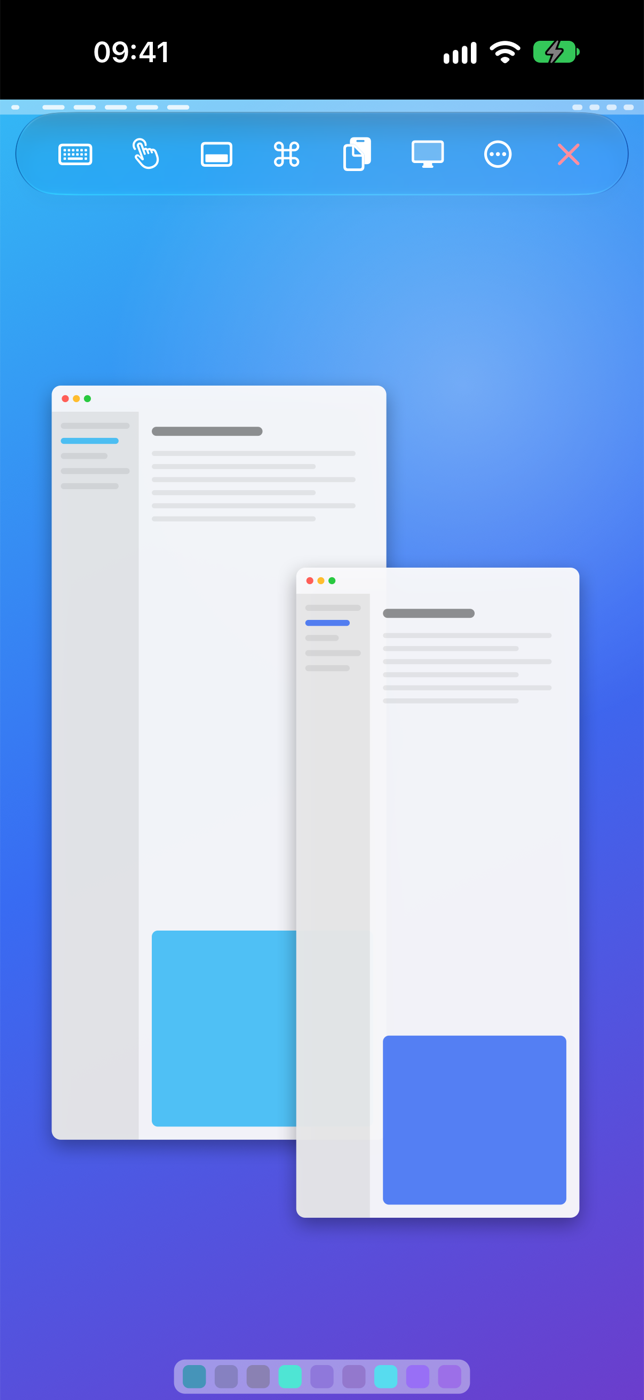
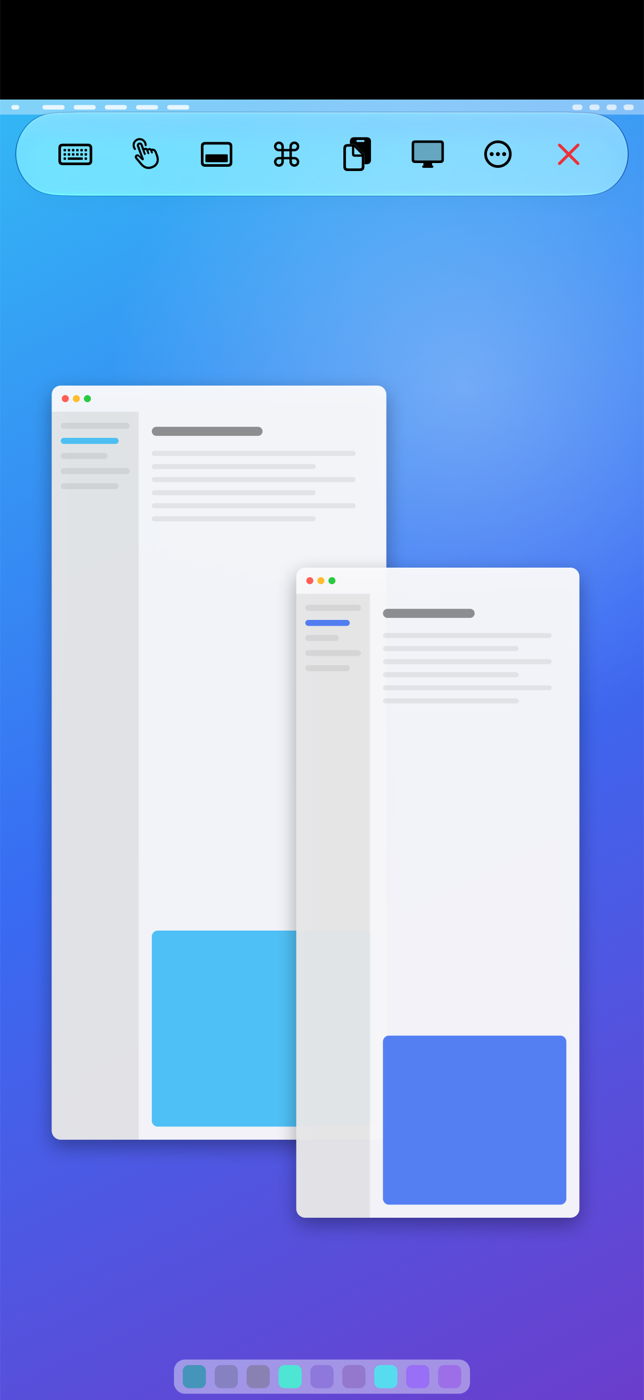
Version 1.1.1
The changelog says what went wrong in 1.1.0 on a device it had not
been tried on, and the pictures show a session as it is again: without
the status bar.

Changed region(s): [[0.0, 0.0307, 0.9938, 0.1536]]

diff --git a/CHANGELOG.md b/CHANGELOG.md
@@ -3,6 +3,20 @@
 Notable changes to OpenScreens. Versions follow
 [Semantic Versioning](https://semver.org).
 
+## 1.1.1
+
+- **Opening a session no longer freezes the app.** Version 1.1.0 showed the
+  status bar wherever a screen had room for it, and what a screen keeps
+  clear depends on whether the bar is showing. On an iPhone Duo with iOS
+  27.3 the two did not agree: each change undid the other, the interface
+  never came to rest, and the system ended the app. The status bar is
+  hidden for as long as a session is on the screen, as it was in 1.0, and
+  nothing about the layout depends on anything the layout changes.
+- Two layouts that keep replacing each other are noticed and stopped,
+  whatever sets them off.
+- A foldable held at the very angle where the trackpad deck comes out no
+  longer has it come and go.
+
 ## 1.1.0
 
 A release for iPhone and iPad, after the first use on real devices.
